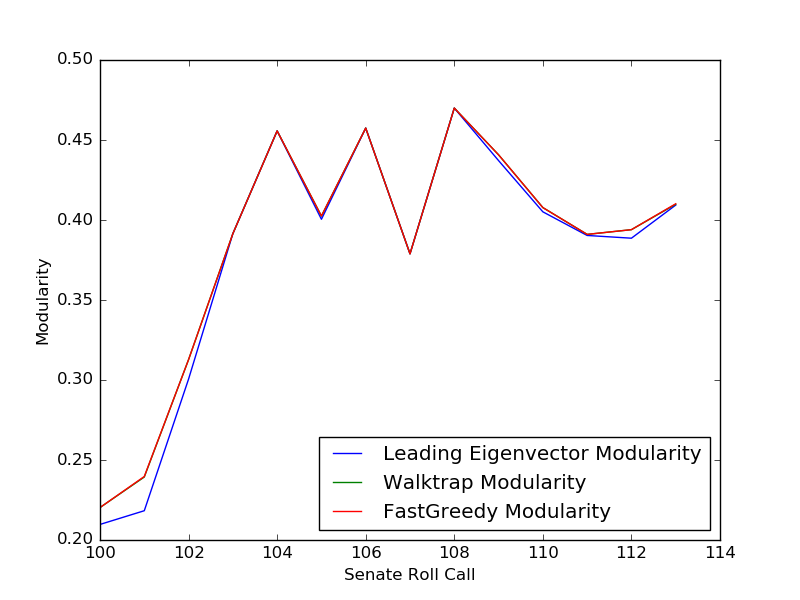
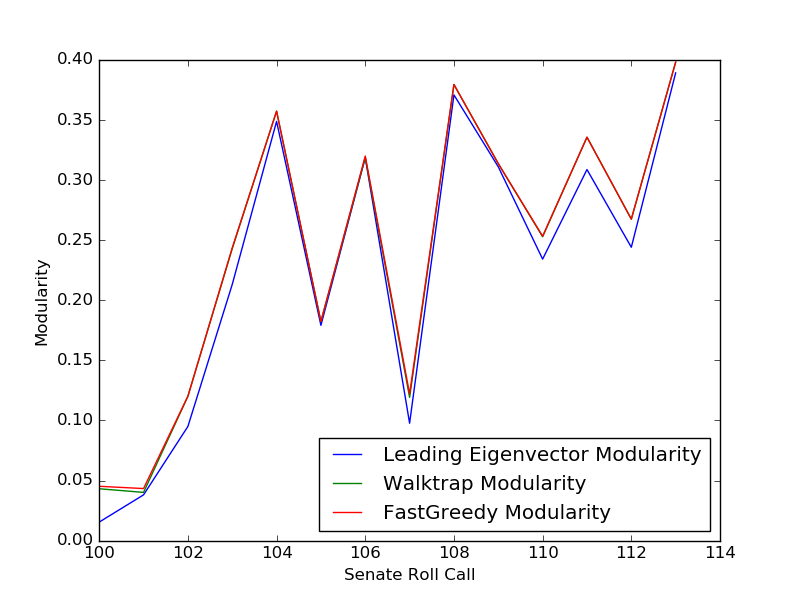
Added files via upload

diff --git a/comparison.py b/comparison.py
@@ -4,11 +4,19 @@ import igraph
 import sys
 import matplotlib.pyplot as plt
 
+# Comparison.py   
+
+# stores graph data dowloaded from download_data module
 input_data = None
+
+# stores the modularity scores obtained by the different algorithms
+# (Walktrap, Leading Eigenvector, and FastGreedy)
 walk_mods = []
 eigen_mods = []
 fast_mods = []
 
+# stores the number of communities obtained by the different algorithms
+# (Walktrap, Leading Eigenvector, and FastGreedy)
 walk_comms = []
 eigen_comms = []
 fast_comms = []
@@ -16,38 +24,48 @@ fast_comms = []
 def main():
   if (len(sys.argv) != 4):
     print "usage: comparison.py senate|house starting_roll_call ending_roll_call"
+  
+  # indicates whether we're analyzing house or senate data
   branch = sys.argv[1]
+  
+  # stores starting and ending session prefix
   session1 = int(sys.argv[2])
   session2 = int(sys.argv[3])
   
+  # runs the Walktrap, Leading Vector, FastGreedy algorithms on the input data
+  # iterates through each graph in the given range
   for i in range(session1, session2 + 1):
       if (branch == "senate"):
           input_data = data.senatedata(i)      
       elif (branch == "house"):
           input_data = data.housedata(i)
-  
+        
+      # this is the input graph
       graph = data.makegraph(input_data)
     
-      result_walk = graph.community_walktrap(weights = "weight", steps = 4).as_clustering()    
-      result_eigen = graph.community_leading_eigenvector(clusters = None, weights = "weight", arpack_options = None)    
-      result_fast = graph.community_fastgreedy(weights = "weight").as_clustering()      
+      # runs each algorithm on the input graph
+      result_walk = graph.community_walktrap(weights = None, steps = 4).as_clustering()    
+      result_eigen = graph.community_leading_eigenvector(clusters = None, weights = None, arpack_options = None)    
+      result_fast = graph.community_fastgreedy(weights = None).as_clustering()      
       
+      #some other algorithms I was considering running
       #result = graph.community_edge_betweenness(clusters = None, directed = False, weights = "weight").as_clustering()
       #result = graph.community_infomap(edge_weights = "weight", vertex_weights = None, trials = 10)
-      #result = graph.community_walktrap(weights = "weight", steps = 4).as_clustering() 
-      #result = graph.community_edge_betweenness(clusters = None, directed = False, weights = "weight").as_clustering()
       #result = graph.community_multilevel(weights = "weight", return_levels = False)
       #result = graph.community_label_propagation(weights = "weight", initial = None, fixed = None)
   
+      # plots and saves the resulting clustering in a .png file
       igraph.plot(result_walk, "walk_" + branch + "_sess" + str(i) + ".png")
       igraph.plot(result_eigen, "eigen_" + branch + "_sess" + str(i) + ".png")
       # already have these graphs  
       # igraph.plot(result_fast, "fast_" + branch + "_sess" + str(i) + ".png")  
       
+      # stores the resulting # of communities produced by each algorithm
       walk_comms.append(result_walk.__len__())
       eigen_comms.append(result_eigen.__len__())
       fast_comms.append(result_fast.__len__())
       
+      # stores the resulting modularity score produced by each algorithm
       walk_mods.append(result_walk.modularity)
       eigen_mods.append(result_eigen.modularity)
       fast_mods.append(result_fast.modularity)
@@ -70,6 +88,7 @@ def main():
   print "fast mods: "
   print fast_mods
   
+  # plots the modularity scores
   sessions = range(session1, session2 + 1)
   plt.plot(sessions, walk_mods)
   plt.plot(sessions, eigen_mods)
